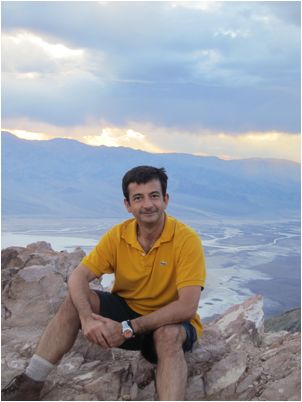
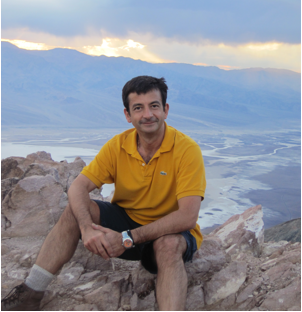
Added a few people pictures and links

diff --git a/html/odmb/index.html b/html/odmb/index.html
@@ -56,6 +56,14 @@
 	  <li><a href="http://www.seas.upenn.edu/~ese171/vhdl/vhdl_primer.html" title="VHDL Primer">VHDL Primer</a></li>
 	</ul>
 	
+	<h3>Software</h3>
+	<ul>
+	  <li><a href="http://cmssw.cvs.cern.ch/cgi-bin/cmssw.cgi/UserCode/FGolf/TriDAS/emu/me11dev/">Source code</a></li>
+	  <li><a
+	href="http://wimp.physics.ucsb.edu:20011/urn:xdaq-application:lid=20/">Me11dev
+	page</a></li>
+	</ul>
+
 	<h3>Other ME1/1 boards</h3>
 	<ul>
 	  <li><a href="http://www.physics.ohio-state.edu/~cms/dmb/" title="DMB at Ohio State">DMB at Ohio State</a></li>
@@ -65,10 +73,6 @@
 	  <li><a href="http://bonner-ntserver.rice.edu/cms/projects.html" title="CCB at Rice">CCB at Rice</a></li>
 	</ul>
 
-	<h3>Quick Links</h3>
-	<ul>
-	  <li><a href="http://wimp.physics.ucsb.edu:20011">Yellow Page/me11dev Page</a></li>
-	</ul>
       </div>
       
       <div class="rightColumn">

diff --git a/html/odmb/software.html b/html/odmb/software.html
@@ -31,7 +31,9 @@
       <div id="sidebar" class="leftColumn">
 	<h3>Quick links</h3>
 	<ul>
-	  <li><a href="http://wimp.physics.ucsb.edu:20011">Yellow Page/me11dev Page</a></li>
+	  <li><a href="http://cmssw.cvs.cern.ch/cgi-bin/cmssw.cgi/UserCode/FGolf/TriDAS/emu/me11dev/">Source code</a></li>
+	  <li><a href="http://wimp.physics.ucsb.edu:20011/urn:xdaq-application:lid=20/">Me11dev	page</a></li>
+	  <li><a href="http://wimp.physics.ucsb.edu:20011/urn:xdaq-application:lid=30/VMECCGUI_GoTo_General?gt_ypg=Yellow+Page">Yellow	page</a></li>
 	</ul>
       </div>
       

diff --git a/html/odmb/people.html b/html/odmb/people.html
@@ -42,6 +42,15 @@
 	    <img class="personpic" src="people/guido.png" alt="Picture of Guido" />
 	  </div>
 	  <div class="personRight">
+	    <pre>
+Office: 5232 Broida Hall
+  Mail: Physics Department
+        University of California
+        Santa Barbara, CA 93106-9530
+ Phone: (805)893-8802
+   FAX: (805)893-8597
+E-Mail: gmagazzu at hep dot ucsb dot edu
+	    </pre>
 	  </div>
 	  <div class="clearhack"></div>
 	</div>

diff --git a/html/odmb/documentation/sidebar.html b/html/odmb/documentation/sidebar.html
@@ -14,6 +14,7 @@
   <body>
     <h3>Quick links</h3>
     <ul>
+      <li><a href="documentation.html">ME1/1 update</a></li>
       <li><a href="ISE.html">ISE</a></li>
       <li><a href="TriDAS.html">TriDAS</a></li>
       <li><a href="VME.html">VME</a></li>

diff --git a/html/odmb/people.css b/html/odmb/people.css
@@ -5,7 +5,7 @@
 }
 
 .personpic{
-    width: 128px;
+    height: 150px;
     float: left;
     padding-right: 15px;
 }
